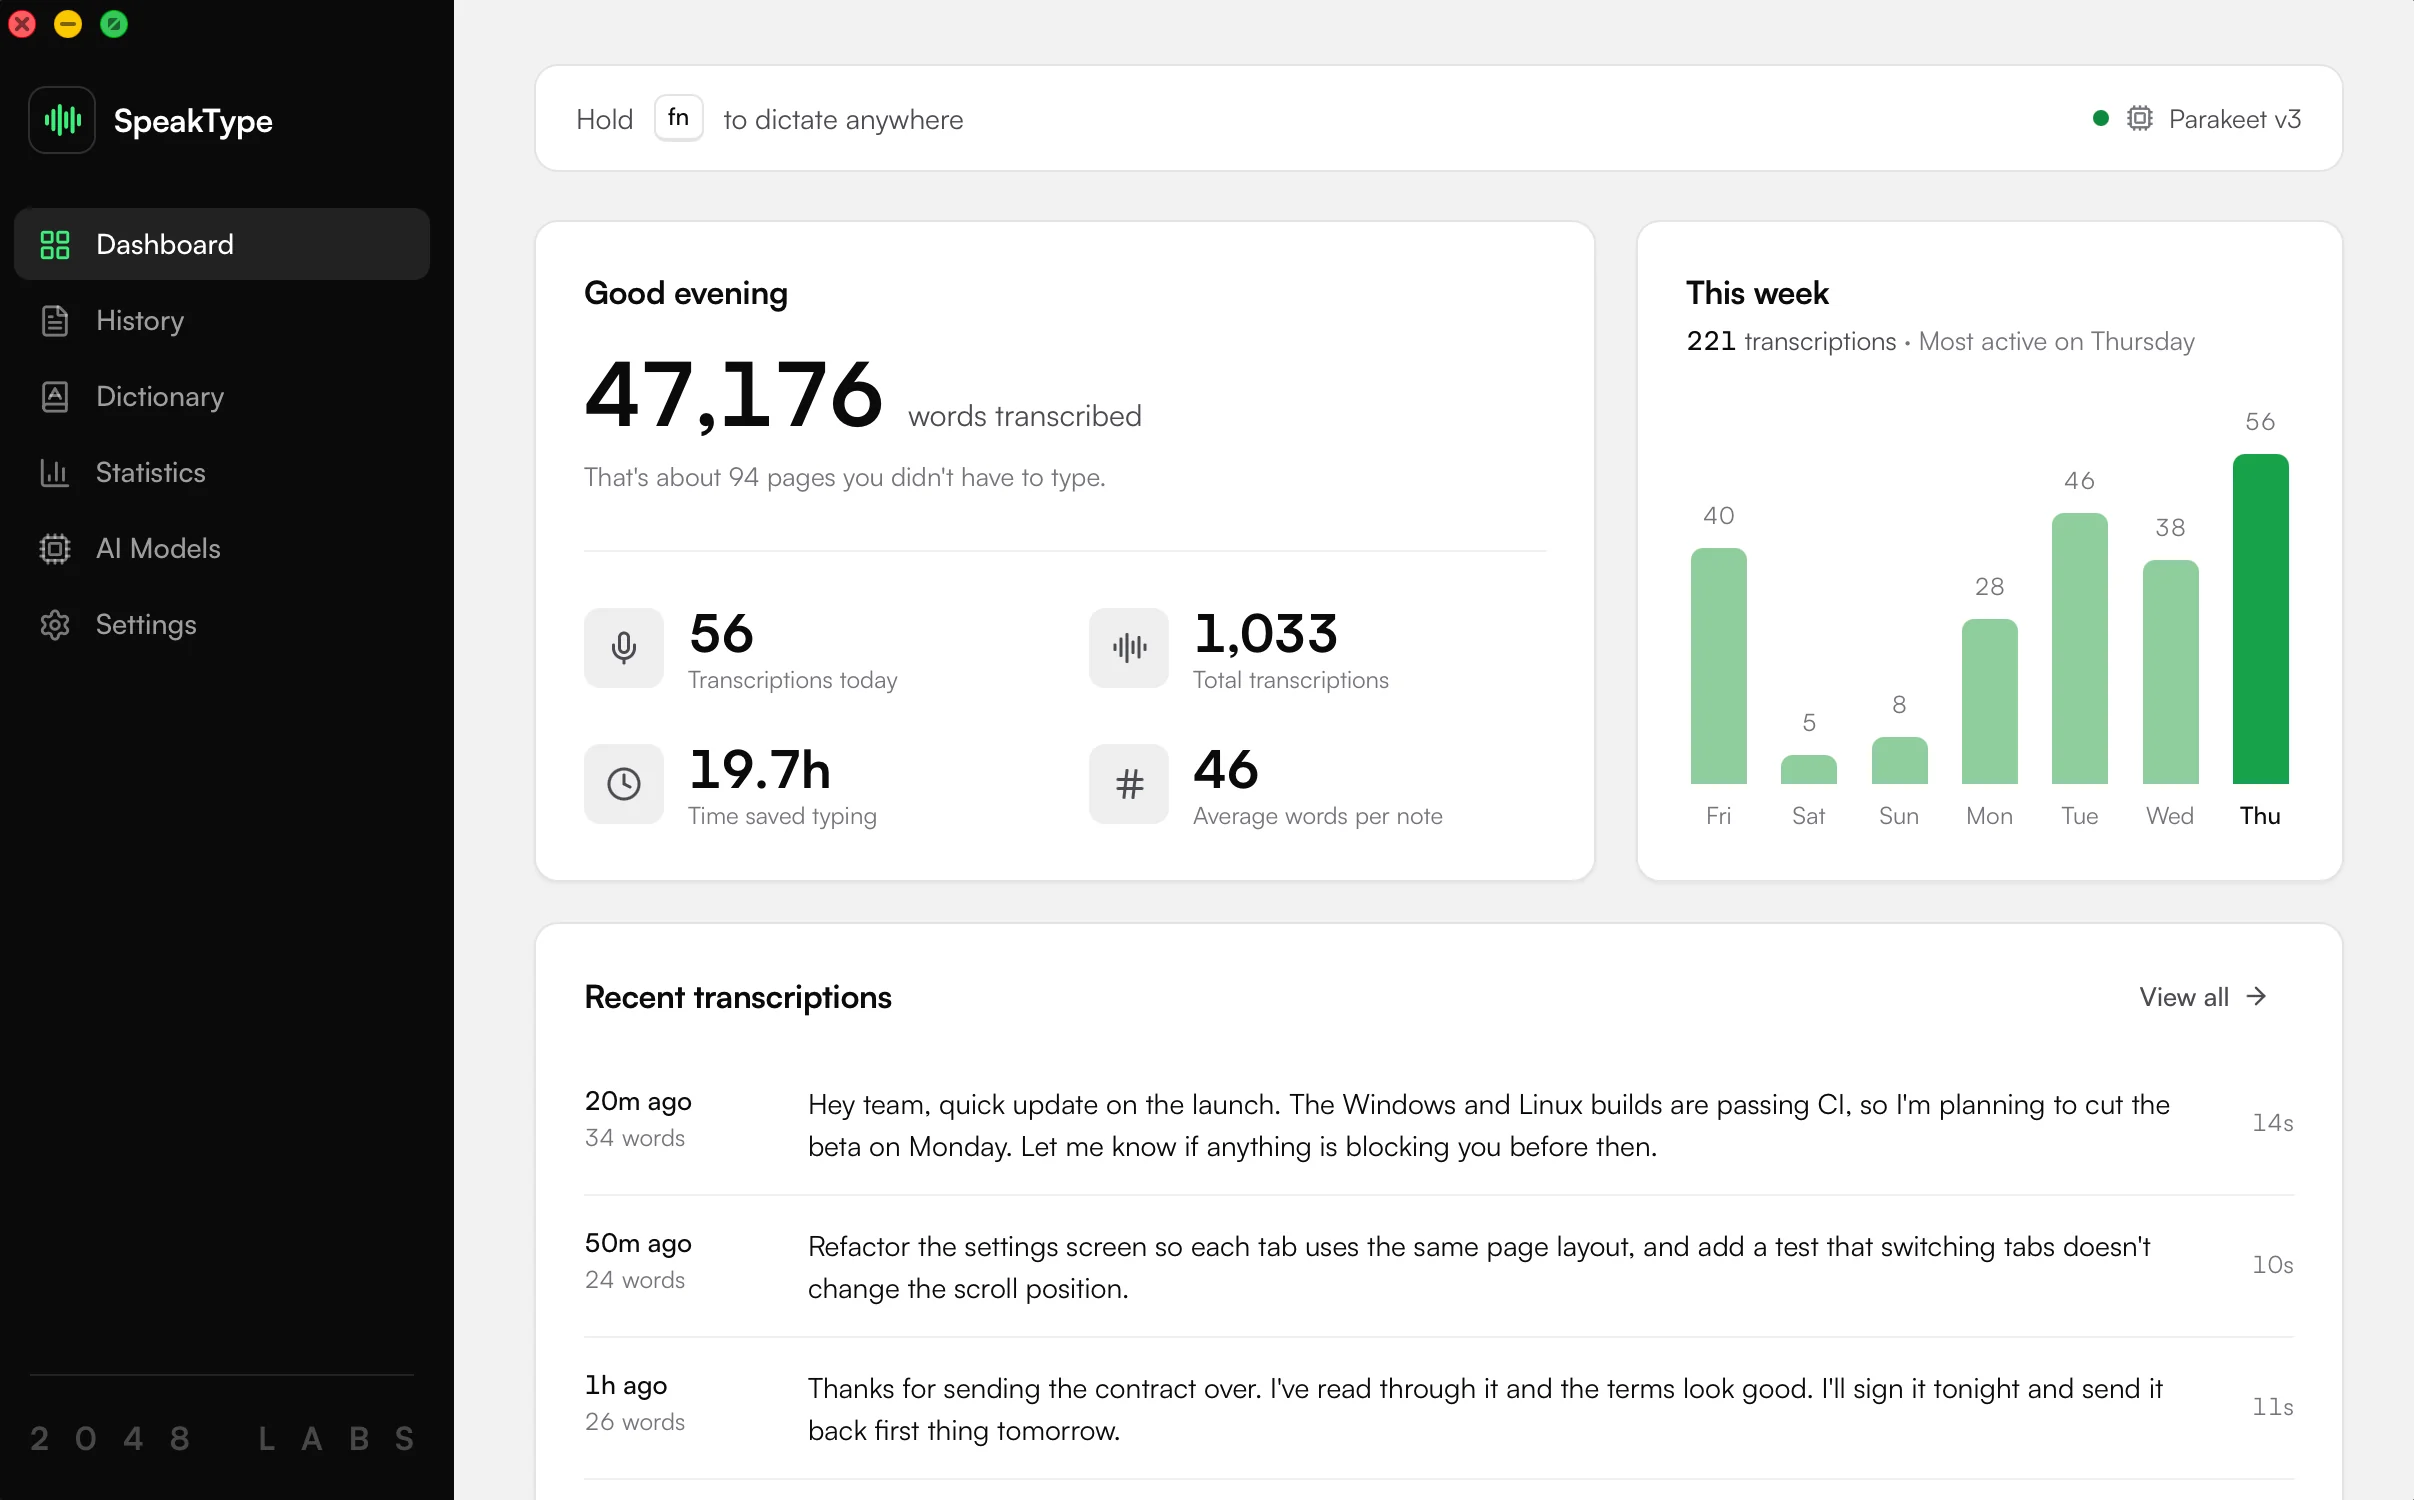
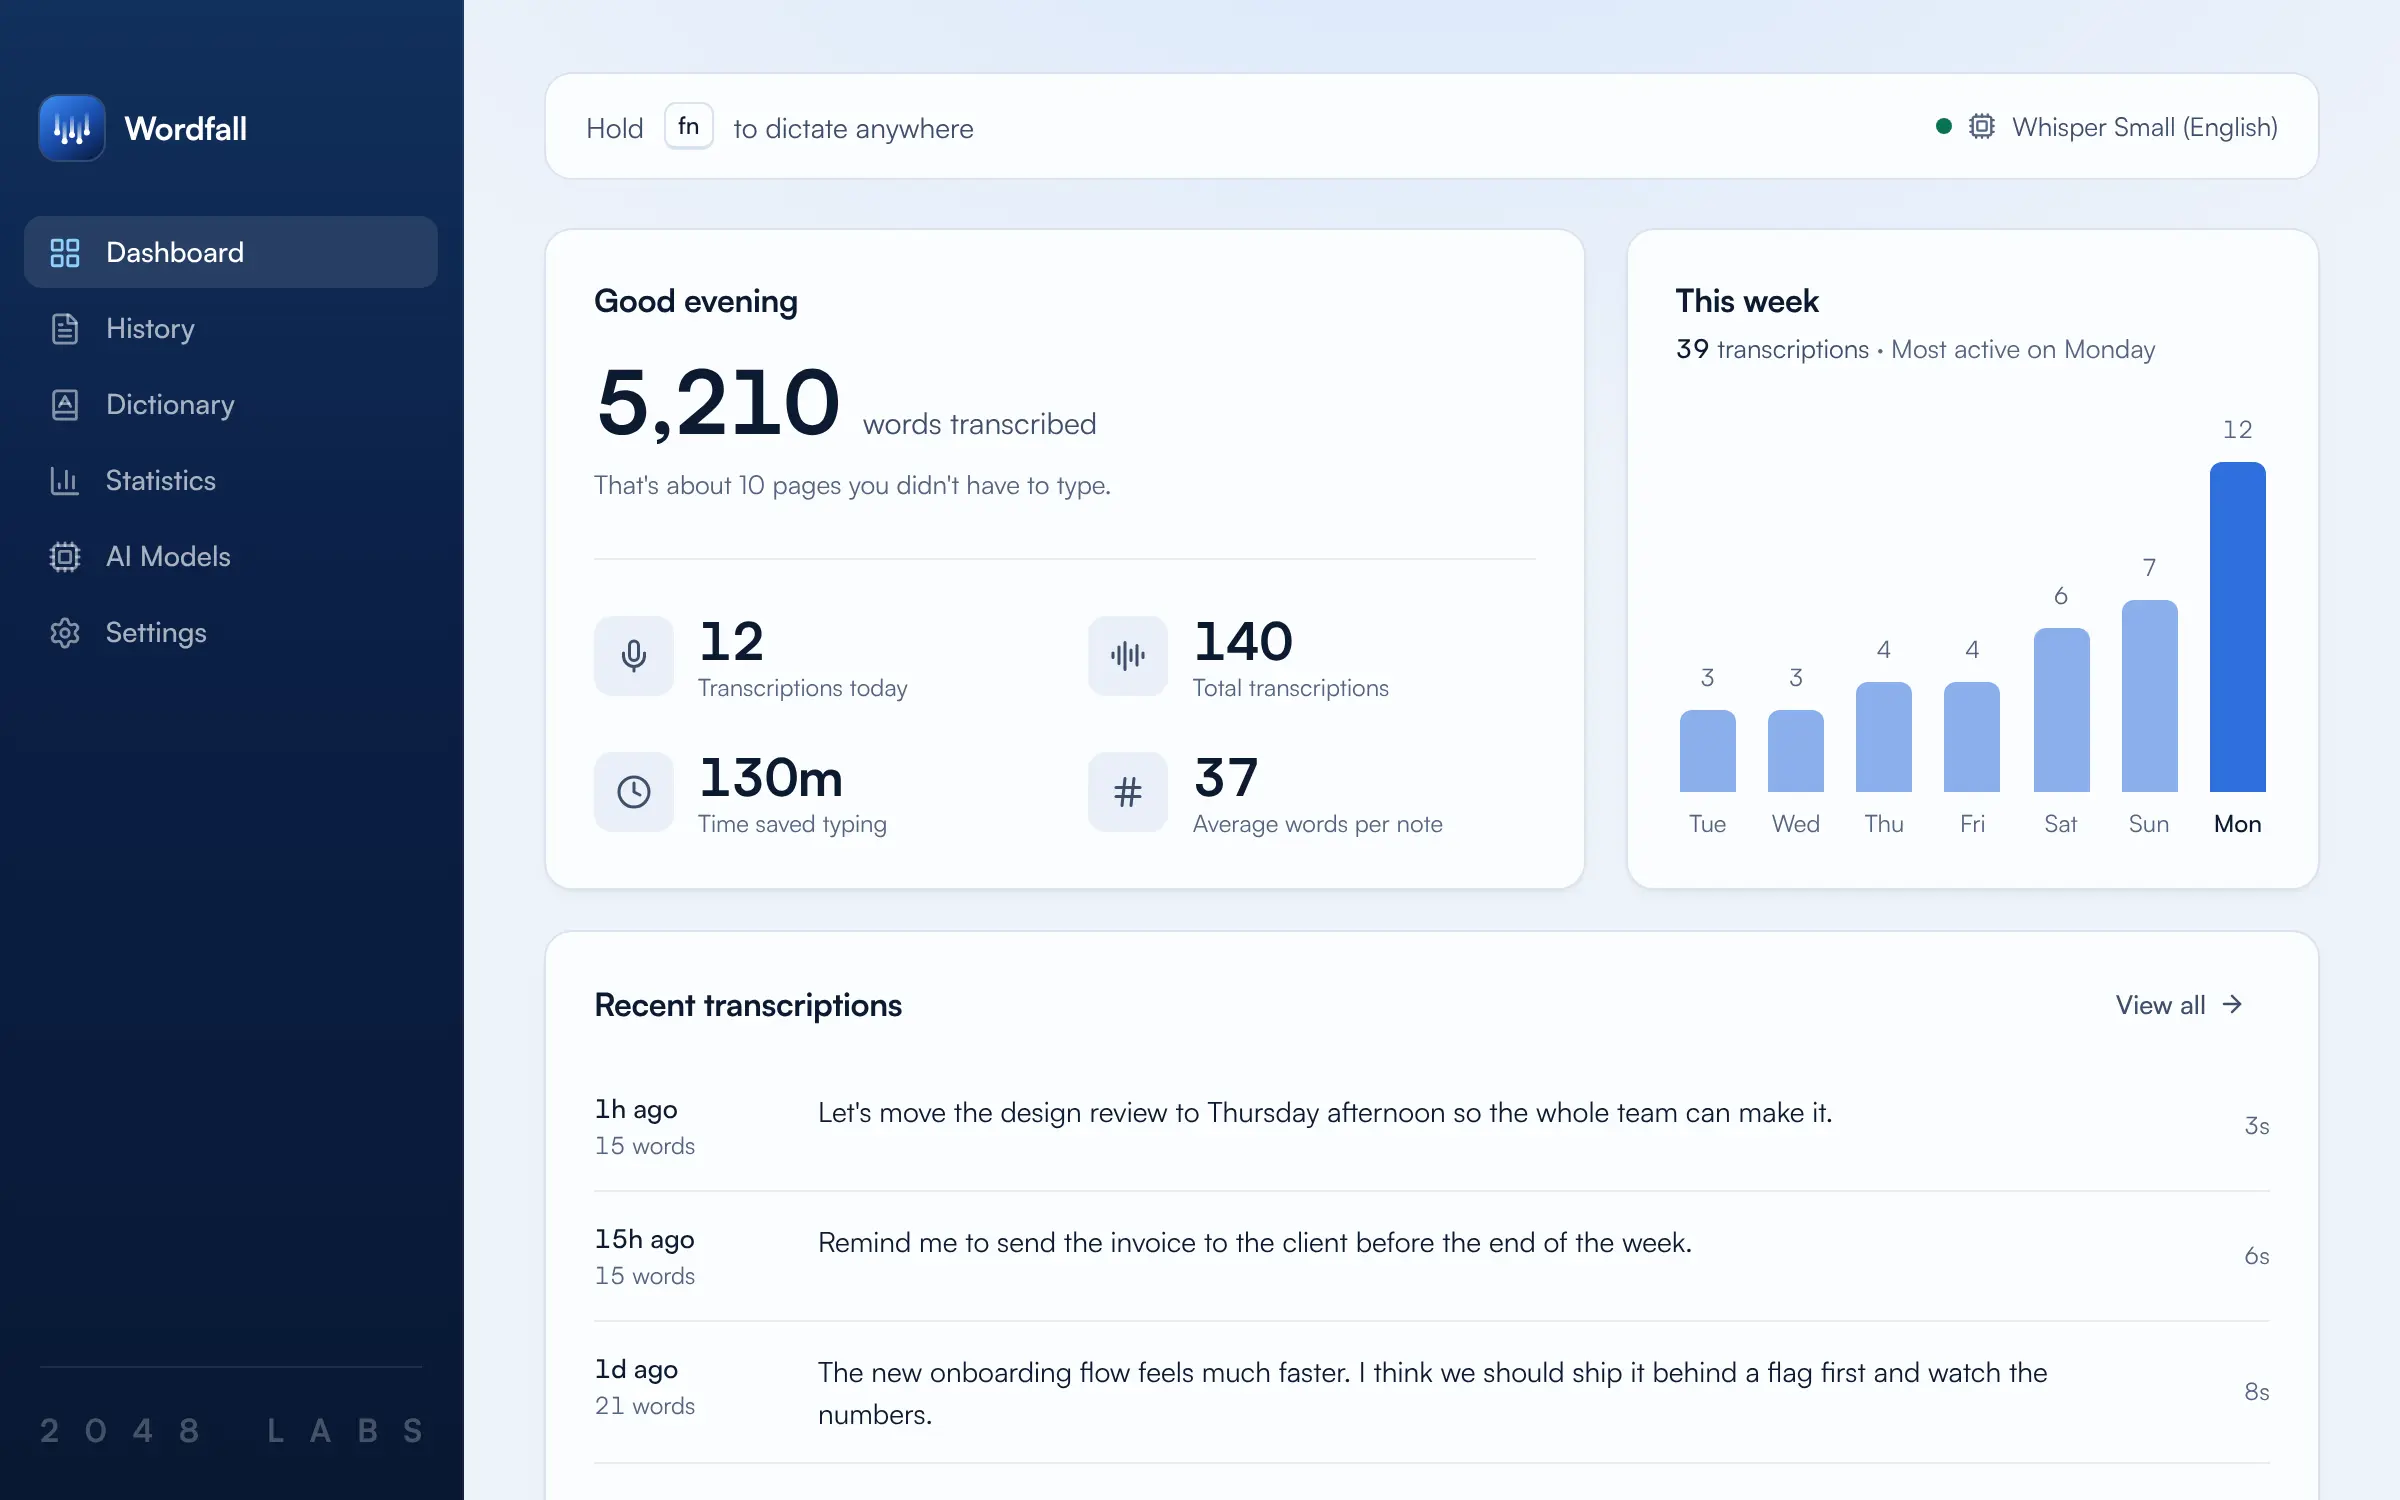
feat(desktop): rename to Wordfall, with a calm and flowing theme
Rename what users see from SpeakType to Wordfall: window titles, the menu
bar tooltip and menu, onboarding, settings, update text, the macOS
microphone prompt and productName. The bundle identifier, crate and binary
names, data folders and update endpoint are unchanged, so existing settings,
history and permissions carry over. Text about importing from SpeakType 1
keeps that name.

New design tokens: pale blue-tinted surfaces with deep blue accents in
light, deep navy with luminous soft blue in dark, all body text at WCAG AA
or better. The sidebar and menu bar panel header are a navy gradient, the
main action is a soft blue gradient, and the recorder pill is navy with a
waveform that falls from sky blue to teal and fades as it drifts away.

Claude-Session: https://claude.ai/code/session_01Ki1G2L6HXpKedp61Kfw6y9

diff --git a/macos-v1/README.md b/macos-v1/README.md
@@ -1,10 +1,12 @@
 <div align="center">
 
-<img src=".github/assets/icon.png" width="112" alt="SpeakType icon">
+<img src=".github/assets/icon.png" width="112" alt="Wordfall icon">
 
-# SpeakType
+# Wordfall
 
 **Talk instead of type, in any app. Free, open source, and 100% on your computer.**
+
+<sub>Formerly SpeakType.</sub>
 
 [![Download for macOS](https://img.shields.io/badge/macOS-Download-111111?style=for-the-badge&logo=apple&logoColor=white)](https://github.com/karansinghgit/speaktype/releases/latest)
 [![Download for Windows](https://img.shields.io/badge/Windows-Download-111111?style=for-the-badge&logo=windows&logoColor=white)](https://github.com/karansinghgit/speaktype/releases/latest)
@@ -14,25 +16,25 @@
 [![Downloads](https://img.shields.io/github/downloads/karansinghgit/speaktype/total?style=flat-square&color=111111)](https://github.com/karansinghgit/speaktype/releases)
 [![License: MIT](https://img.shields.io/badge/License-MIT-111111?style=flat-square)](LICENSE)
 
-<img src=".github/assets/speaktype.webp" alt="The SpeakType dashboard: 47,176 words transcribed, this week's activity and recent transcriptions" width="100%">
+<img src=".github/assets/speaktype.webp" alt="The Wordfall dashboard: 5,210 words transcribed, this week's activity and recent transcriptions" width="100%">
 
 </div>
 
-## What is SpeakType?
+## What is Wordfall?
 
-SpeakType lets you type with your voice. Hold a key, say what you want to write, and let go. Your words appear wherever your cursor is: an email, a chat, a document, a code editor, anywhere.
+Wordfall lets you type with your voice. Hold a key, say what you want to write, and let go. Your words appear wherever your cursor is: an email, a chat, a document, a code editor, anywhere.
 
-Most voice typing apps send your recordings to a company's servers and charge a monthly fee. SpeakType does all the work on your own computer, so it's **free**, it **works without internet**, and **nothing you say ever leaves your computer**.
+Most voice typing apps send your recordings to a company's servers and charge a monthly fee. Wordfall does all the work on your own computer, so it's **free**, it **works without internet**, and **nothing you say ever leaves your computer**.
 
 ## How it works
 
-1. **Install SpeakType** and open it.
-2. **Download a speech model** when SpeakType asks. This is the part that turns your voice into text. It's a one-time download of 75 MB to 1.6 GB, and SpeakType suggests one that suits your computer.
+1. **Install Wordfall** and open it.
+2. **Download a speech model** when Wordfall asks. This is the part that turns your voice into text. It's a one-time download of 75 MB to 1.6 GB, and Wordfall suggests one that suits your computer.
 3. **Hold your shortcut and talk.** Click into any text box, hold <kbd>fn</kbd> on a Mac or <kbd>Ctrl</kbd> + <kbd>Shift</kbd> + <kbd>Space</kbd> on Windows and Linux, speak, and let go. You can change the shortcut in Settings.
 
 ## Why people use it
 
-|  | SpeakType | Typical voice typing apps |
+|  | Wordfall | Typical voice typing apps |
 | --- | --- | --- |
 | **Cost** | Free, with no limits | Monthly subscription |
 | **Your recordings** | Stay on your computer | Uploaded to the company's servers |
@@ -61,17 +63,17 @@ Most voice typing apps send your recordings to a company's servers and charge a 
 ### Installing
 
 **Mac**
-1. Open the `.dmg` file and drag SpeakType into your Applications folder.
-2. Open SpeakType. When asked, allow microphone access (so it can hear you) and accessibility access (so it can type for you).
+1. Open the `.dmg` file and drag Wordfall into your Applications folder.
+2. Open Wordfall. When asked, allow microphone access (so it can hear you) and accessibility access (so it can type for you).
 
 **Windows**
 1. Run the `-setup.exe` file.
 2. If a blue "Windows protected your PC" box appears, click **More info**, then **Run anyway**. You only need to do this once.
 
 **Linux**
-- **`.deb`:** double-click it to install with your software center, or run `sudo apt install ./SpeakType_*.deb`.
-- **`.rpm`:** double-click it, or run `sudo dnf install ./SpeakType-*.rpm`.
-- **`.AppImage`:** make it runnable with `chmod +x SpeakType_*.AppImage`, then double-click it.
+- **`.deb`:** double-click it to install with your software center, or run `sudo apt install ./Wordfall_*.deb`.
+- **`.rpm`:** double-click it, or run `sudo dnf install ./Wordfall-*.rpm`.
+- **`.AppImage`:** make it runnable with `chmod +x Wordfall_*.AppImage`, then double-click it.
 
 The extra step on Windows is there because the Windows app isn't signed by Microsoft yet. That's coming soon.
 
@@ -80,21 +82,21 @@ The extra step on Windows is there because the Windows app isn't signed by Micro
 <details>
 <summary><b>Is it really free?</b></summary>
 
-Yes. There's no trial, no word limit and no paid plan. SpeakType is open source under the MIT license, so anyone can read or reuse the code.
+Yes. There's no trial, no word limit and no paid plan. Wordfall is open source under the MIT license, so anyone can read or reuse the code.
 
 </details>
 
 <details>
 <summary><b>Does anything get sent over the internet?</b></summary>
 
-No. Your voice is turned into text on your computer. SpeakType only goes online to download speech models when you ask it to, and to check for new versions, which you can turn off in Settings. There's no account, and nothing is collected about how you use it.
+No. Your voice is turned into text on your computer. Wordfall only goes online to download speech models when you ask it to, and to check for new versions, which you can turn off in Settings. There's no account, and nothing is collected about how you use it.
 
 </details>
 
 <details>
 <summary><b>Which model should I pick?</b></summary>
 
-The one SpeakType recommends is a good start. Roughly: smaller models are quicker and use less memory, and larger ones make fewer mistakes. **Parakeet** models are very fast and cover English plus 24 other European languages. They aren't available on Intel Macs. **Whisper** models cover 99 languages. You can download several and switch any time.
+The one Wordfall recommends is a good start. Roughly: smaller models are quicker and use less memory, and larger ones make fewer mistakes. **Parakeet** models are very fast and cover English plus 24 other European languages. They aren't available on Intel Macs. **Whisper** models cover 99 languages. You can download several and switch any time.
 
 </details>
 
@@ -108,27 +110,27 @@ Only on your computer. You can delete single dictations or clear everything from
 <details>
 <summary><b>I used the old Mac app. Do I lose my history?</b></summary>
 
-No. SpeakType 1 offers SpeakType 2 as an update, and the first time you open it, your history, dictionary and settings come with you. You'll need to download a speech model again, since SpeakType 2 uses a different kind. If you'd rather stay on the old app, [SpeakType 1.3](https://github.com/karansinghgit/speaktype/releases/tag/v1.3.0) remains available.
+No. SpeakType 1 offers Wordfall as an update, and the first time you open it, your history, dictionary and settings come with you. You'll need to download a speech model again, since Wordfall uses a different kind. If you'd rather stay on the old app, [SpeakType 1.3](https://github.com/karansinghgit/speaktype/releases/tag/v1.3.0) remains available.
 
 </details>
 
 <details>
 <summary><b>Something isn't working</b></summary>
 
-SpeakType 2 is new, and Windows and Linux support is especially young. Please [open an issue](https://github.com/karansinghgit/speaktype/issues) describing what happened and which computer you're on. It helps a lot.
+Wordfall is new, and Windows and Linux support is especially young. Please [open an issue](https://github.com/karansinghgit/speaktype/issues) describing what happened and which computer you're on. It helps a lot.
 
 </details>
 
 ## What's next
 
 - **Smarter cleanup, still private:** an optional step that tidies up and formats what you said, using an AI model on your computer.
-- **iPhone and Android:** a SpeakType keyboard, with optional syncing between your devices.
+- **iPhone and Android:** a Wordfall keyboard, with optional syncing between your devices.
 - **Words as you speak**, instead of after you stop.
 - **A signed Windows app**, so installing takes no extra steps.
 
-The **[roadmap](ROADMAP.md)** has the rest: what's being worked on now, what's coming later, and what SpeakType will never do.
+The **[roadmap](ROADMAP.md)** has the rest: what's being worked on now, what's coming later, and what Wordfall will never do.
 
-## Help build SpeakType
+## Help build Wordfall
 
 Everyone is welcome, and you don't have to write code. Bug reports, ideas and design feedback all help.
 
@@ -141,15 +143,15 @@ Everyone is welcome, and you don't have to write code. Bug reports, ideas and de
 
 The project is new and the code is small and easy to find your way around, so it's a friendly place to learn. People who use Windows or Linux every day are especially welcome.
 
-Start with the **[contributing guide](CONTRIBUTING.md)**. It explains how to set up your computer, run and test SpeakType, and send your first change.
+Start with the **[contributing guide](CONTRIBUTING.md)**. It explains how to set up your computer, run and test Wordfall, and send your first change.
 
 ---
 
 <div align="center">
 
-**If SpeakType saves you some typing, a star helps other people find it.**
+**If Wordfall saves you some typing, a star helps other people find it.**
 
-[![Star SpeakType on GitHub](https://img.shields.io/github/stars/karansinghgit/speaktype?style=for-the-badge&logo=github&label=Star%20SpeakType&color=39f27a&labelColor=111111)](https://github.com/karansinghgit/speaktype)
+[![Star Wordfall on GitHub](https://img.shields.io/github/stars/karansinghgit/speaktype?style=for-the-badge&logo=github&label=Star%20Wordfall&color=2b6be0&labelColor=0b1a30)](https://github.com/karansinghgit/speaktype)
 
 </div>
 

diff --git a/macos-v1/CHANGELOG.md b/macos-v1/CHANGELOG.md
@@ -5,6 +5,7 @@ All notable changes to this project will be documented in this file.
 The format is based on Keep a Changelog, and this project adheres to Semantic Versioning.
 
 ## [Unreleased]
+- SpeakType 2 is now Wordfall, with a calm new look: deep blues and soft gradients in light and dark themes, a new app and menu bar icon, and a recorder whose waveform falls like rain. Your settings, dictionary and history carry over unchanged.
 - Models are now warmed up as soon as they finish downloading (and when you pick one), so the first dictation no longer stalls on "warming up".
 - Fix: the recorder's warming-up message was clipped mid-word, and pressing esc left it wedged on screen. It now shows the real loading stage, elapsed time, and settles back to idle.
 - Fix: the recommended model on the AI Models screen now shows download progress, a cancel button, and the actual reason a download failed (with a retry) instead of a Download button that appeared to do nothing.
